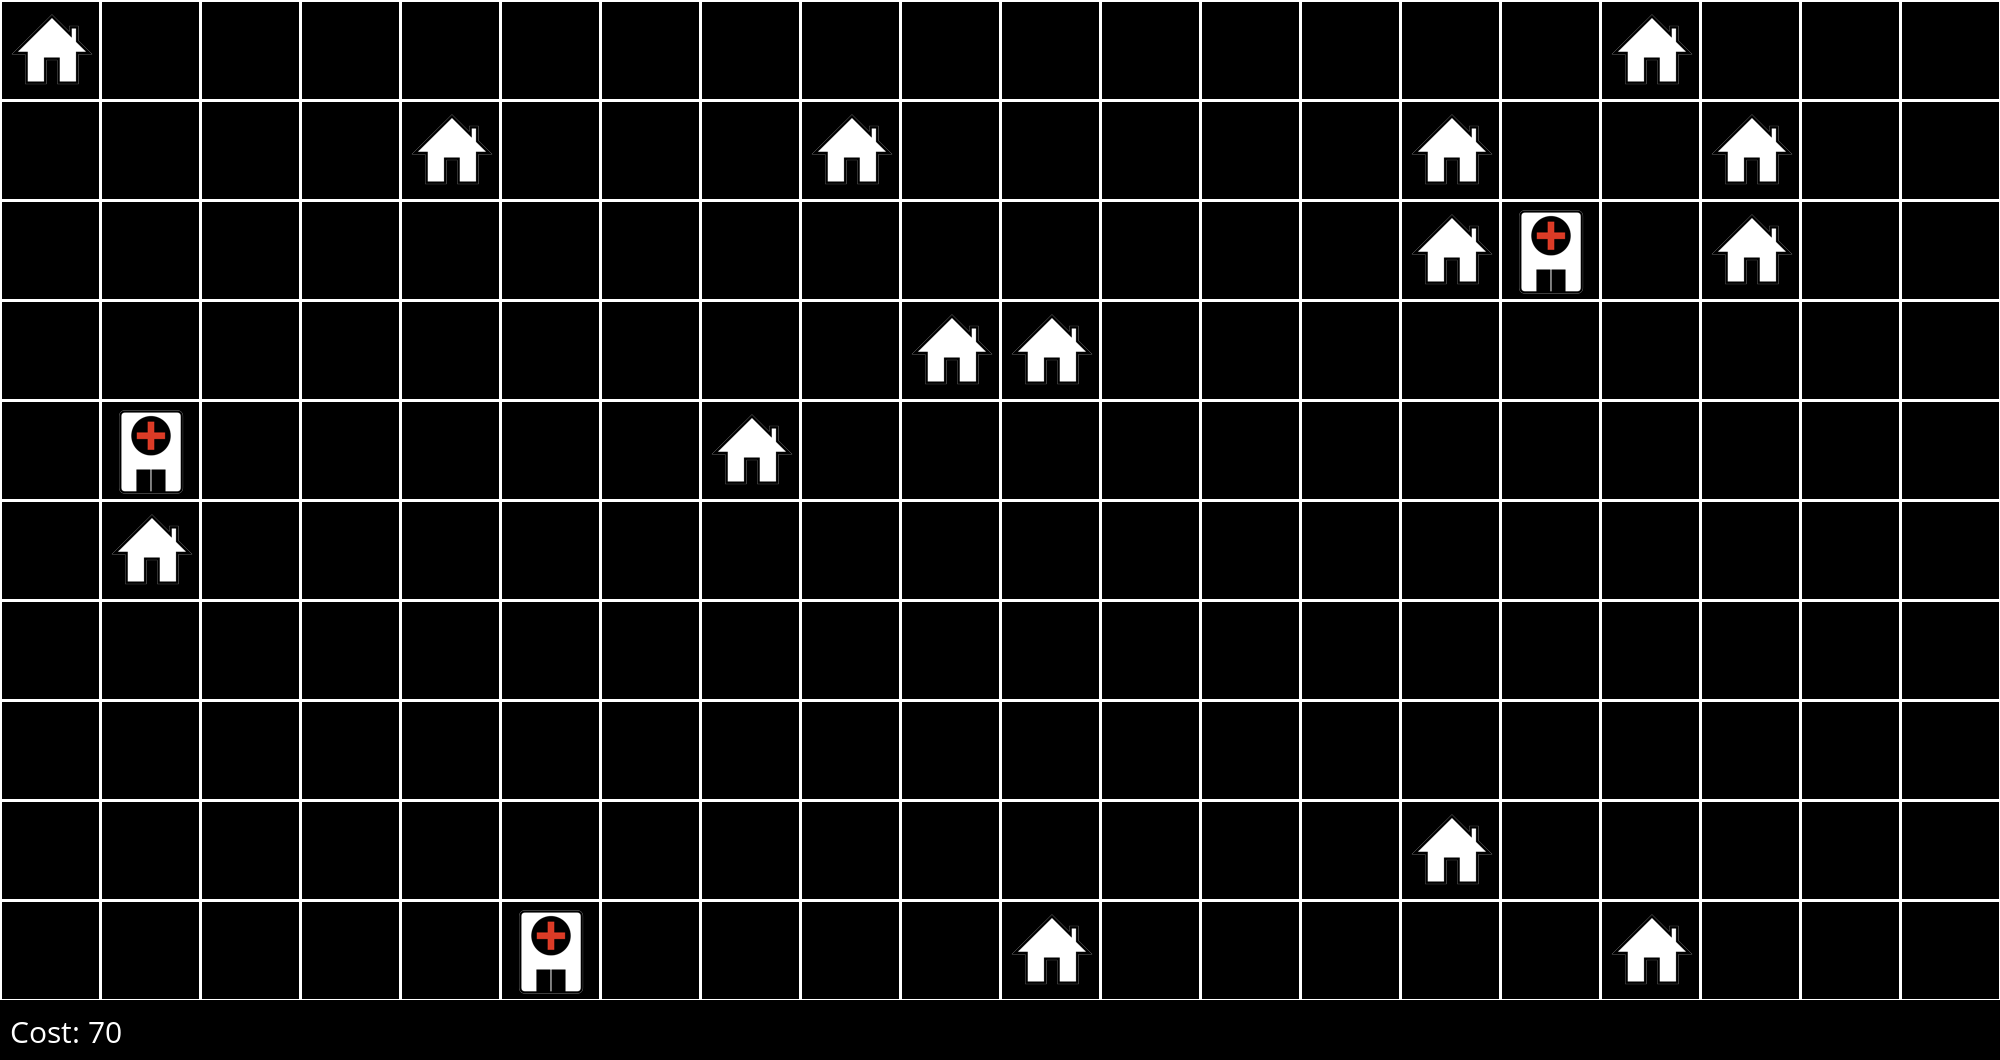
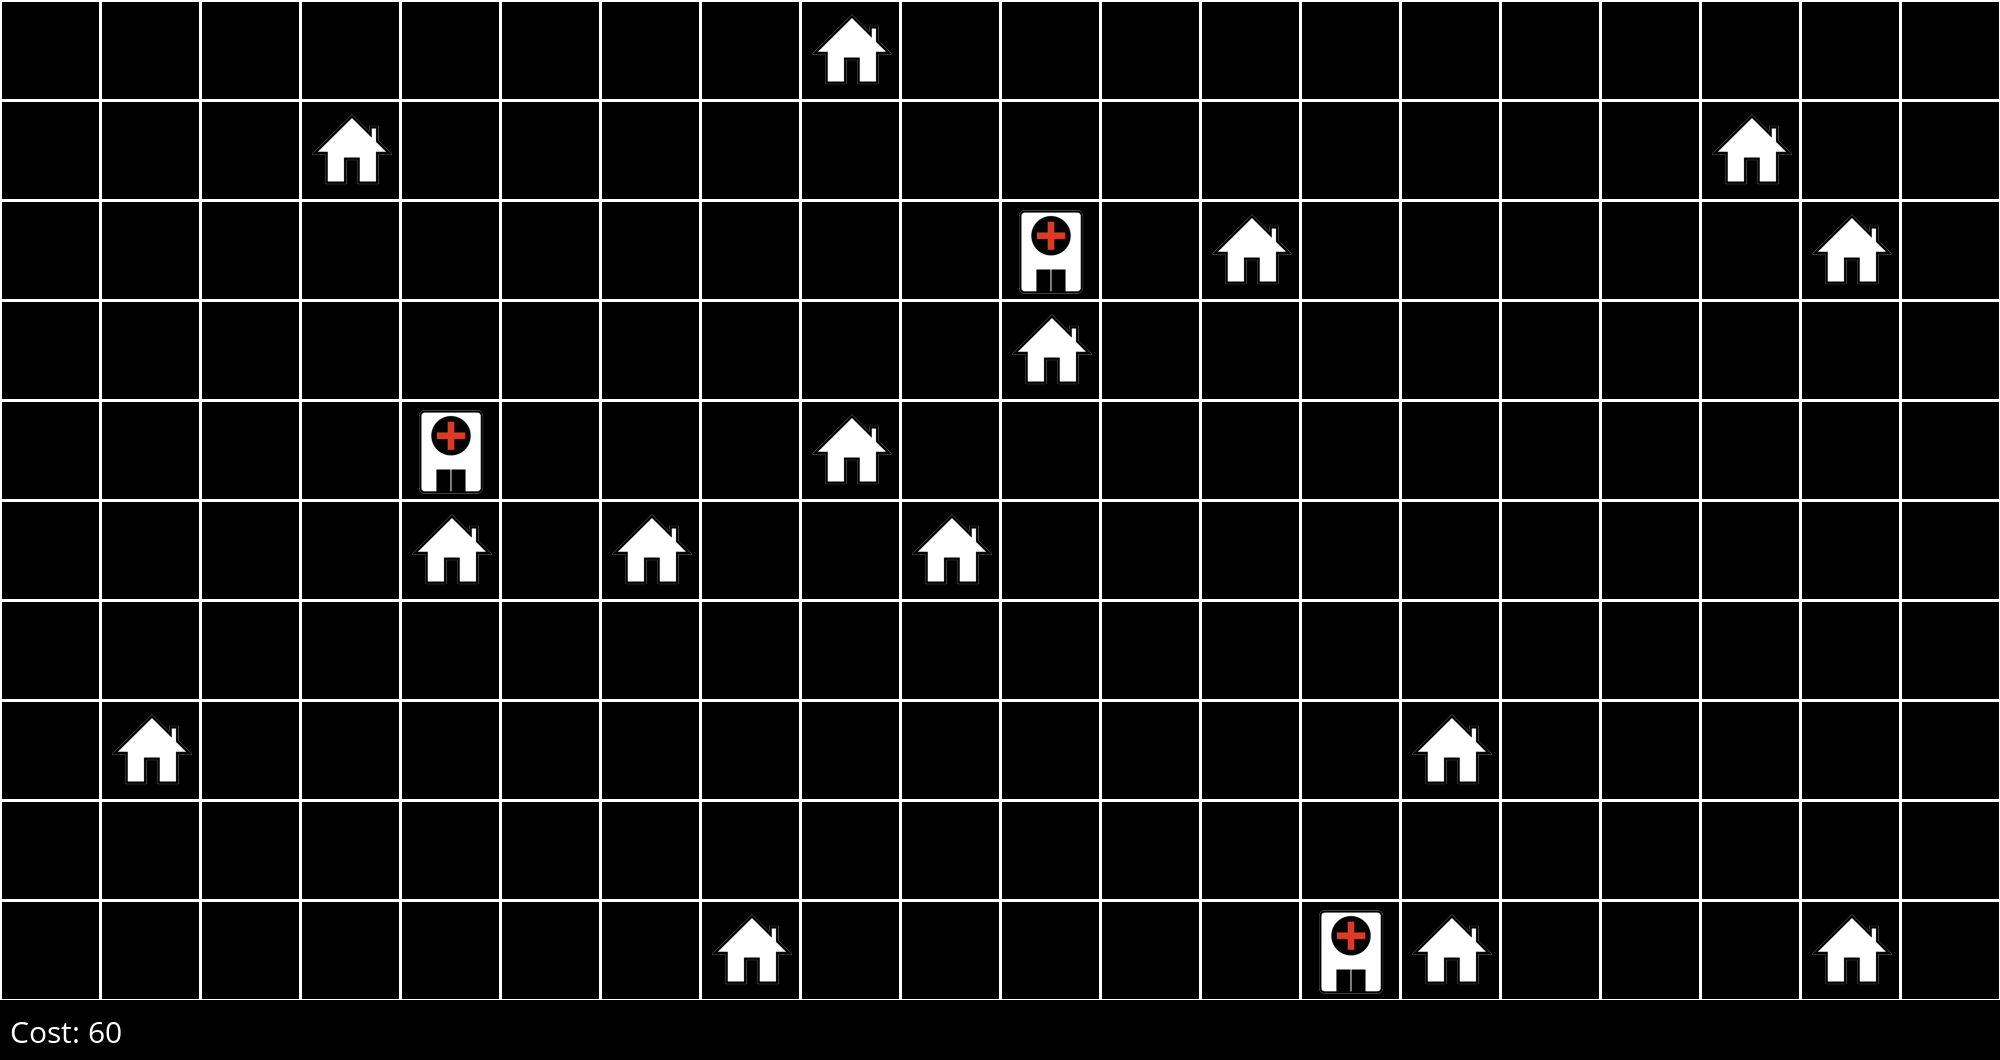
Hospital - progress

diff --git a/__devx/CS_50/CS50_AI/Project3/src3/hospitals/hospitals.py b/__devx/CS_50/CS50_AI/Project3/src3/hospitals/hospitals.py
@@ -196,8 +196,9 @@ for i in range(15):
     s.add_house(random.randrange(s.height), random.randrange(s.width))
 
 # Use local search to determine hospital placement
-hospitals = s.hill_climb(image_prefix="hospitals", log=True)
+# hospitals = s.hill_climb(image_prefix="hospitals", log=True)
 
+hospitals = s.random_restart(20, image_prefix="hospitals", log=True)
 
 # Hill climb prompt 1
 # Initial state: cost 82
@@ -212,3 +213,26 @@ hospitals = s.hill_climb(image_prefix="hospitals", log=True)
 # Found better neighbor: cost 66
 # Found better neighbor: cost 65
 # Found better neighbor: cost 63
+
+
+# Random Restart 20 times
+# 0: Found new best state: cost 87
+# 1: Found new best state: cost 58
+# 2: Found state: cost 64
+# 3: Found state: cost 72
+# 4: Found new best state: cost 56
+# 5: Found state: cost 73
+# 6: Found state: cost 60
+# 7: Found state: cost 66
+# 8: Found state: cost 56
+# 9: Found state: cost 62
+# 10: Found state: cost 61
+# 11: Found state: cost 56
+# 12: Found state: cost 63
+# 13: Found state: cost 60
+# 14: Found state: cost 57
+# 15: Found state: cost 68
+# 16: Found state: cost 58
+# 17: Found state: cost 58
+# 18: Found new best state: cost 53
+# 19: Found state: cost 62
